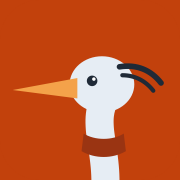
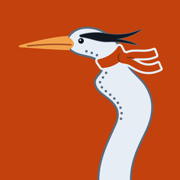
Nieuwe Kees-tekening op de site, nieuw deelplaatje en iconen

Changed region(s): [[0.0833, 0.1389, 0.9167, 1.0]]

diff --git a/style.css b/style.css
@@ -15,7 +15,7 @@ header.top .kees-naam{font-size:28px;text-decoration:none}
 header.top nav a{font-size:15px;color:var(--grijs)}
 .horizon{height:1px;background:var(--inkt);opacity:.5;margin:14px 0 0}
 .hero{text-align:center;padding:36px 0 8px}
-.hero svg{height:130px;width:auto}
+.hero img{height:150px;width:auto}
 h1{font-family:Fredoka,Nunito,sans-serif;font-weight:700;font-size:clamp(46px,11vw,76px);line-height:1;margin:14px 0 10px;color:var(--oranje)}
 .hero p{font-size:19px;margin:0 auto 22px;max-width:30em}
 .knop{display:inline-block;background:var(--oranje);color:var(--knoptekst);font-weight:800;text-decoration:none;border-radius:13px;padding:13px 24px}
@@ -29,5 +29,5 @@ ul{padding-left:1.2em}
 footer{margin-top:48px;padding:20px 0 32px;border-top:1px solid var(--lijn);font-size:15px;color:var(--grijs)}
 footer a{color:inherit}
 .legs{stroke:var(--poot)}
-@media (prefers-reduced-motion:no-preference){.hero svg{animation:zweef 3s ease-in-out infinite}@keyframes zweef{50%{transform:translateY(-5px)}}}
+@media (prefers-reduced-motion:no-preference){.hero img{animation:zweef 3s ease-in-out infinite}@keyframes zweef{50%{transform:translateY(-5px)}}}
 article h1{font-family:Nunito,system-ui,sans-serif;font-weight:800;font-size:32px;line-height:1.2;color:var(--inkt);margin:28px 0 6px}

diff --git a/index.html b/index.html
@@ -32,17 +32,7 @@
 
 <main>
 <section class="hero">
-  <svg role="img" aria-label="Kees de reiger" viewBox="0 0 120 140" width="111" height="130">
-    <path class="legs" d="M58 96 L52 136 M66 96 L70 136" stroke-width="3" stroke-linecap="round"/>
-    <ellipse cx="62" cy="80" rx="30" ry="22" fill="#E6EDF4"/>
-    <path d="M40 80 Q62 70 86 84" stroke="#9AA6B4" stroke-width="3" fill="none" stroke-linecap="round"/>
-    <path d="M50 66 Q44 40 56 26" stroke="#E6EDF4" stroke-width="12" fill="none" stroke-linecap="round"/>
-    <circle cx="58" cy="24" r="12" fill="#E6EDF4"/>
-    <path class="legs" d="M62 16 Q76 8 88 12" stroke-width="3" fill="none" stroke-linecap="round"/>
-    <path d="M48 22 L18 27 L48 30 Z" fill="#F4A24A"/>
-    <circle cx="55" cy="22" r="2.6" fill="#1F2A37"/>
-    <path d="M46 40 Q58 48 62 38 L60 56 Q52 54 46 50 Z" fill="#C2410C"/>
-  </svg>
+  <img src="kees.svg" alt="Kees de reiger" width="127" height="150">
   <h1>Kees</h1>
   <p>Jouw assistent voor alledaagse vragen, van hier. Eerlijk advies, bedragen en regels met een bron, en prijzen die kloppen.</p>
   <a class="knop" href="https://app.hoikees.nl">Naar Kees</a>
